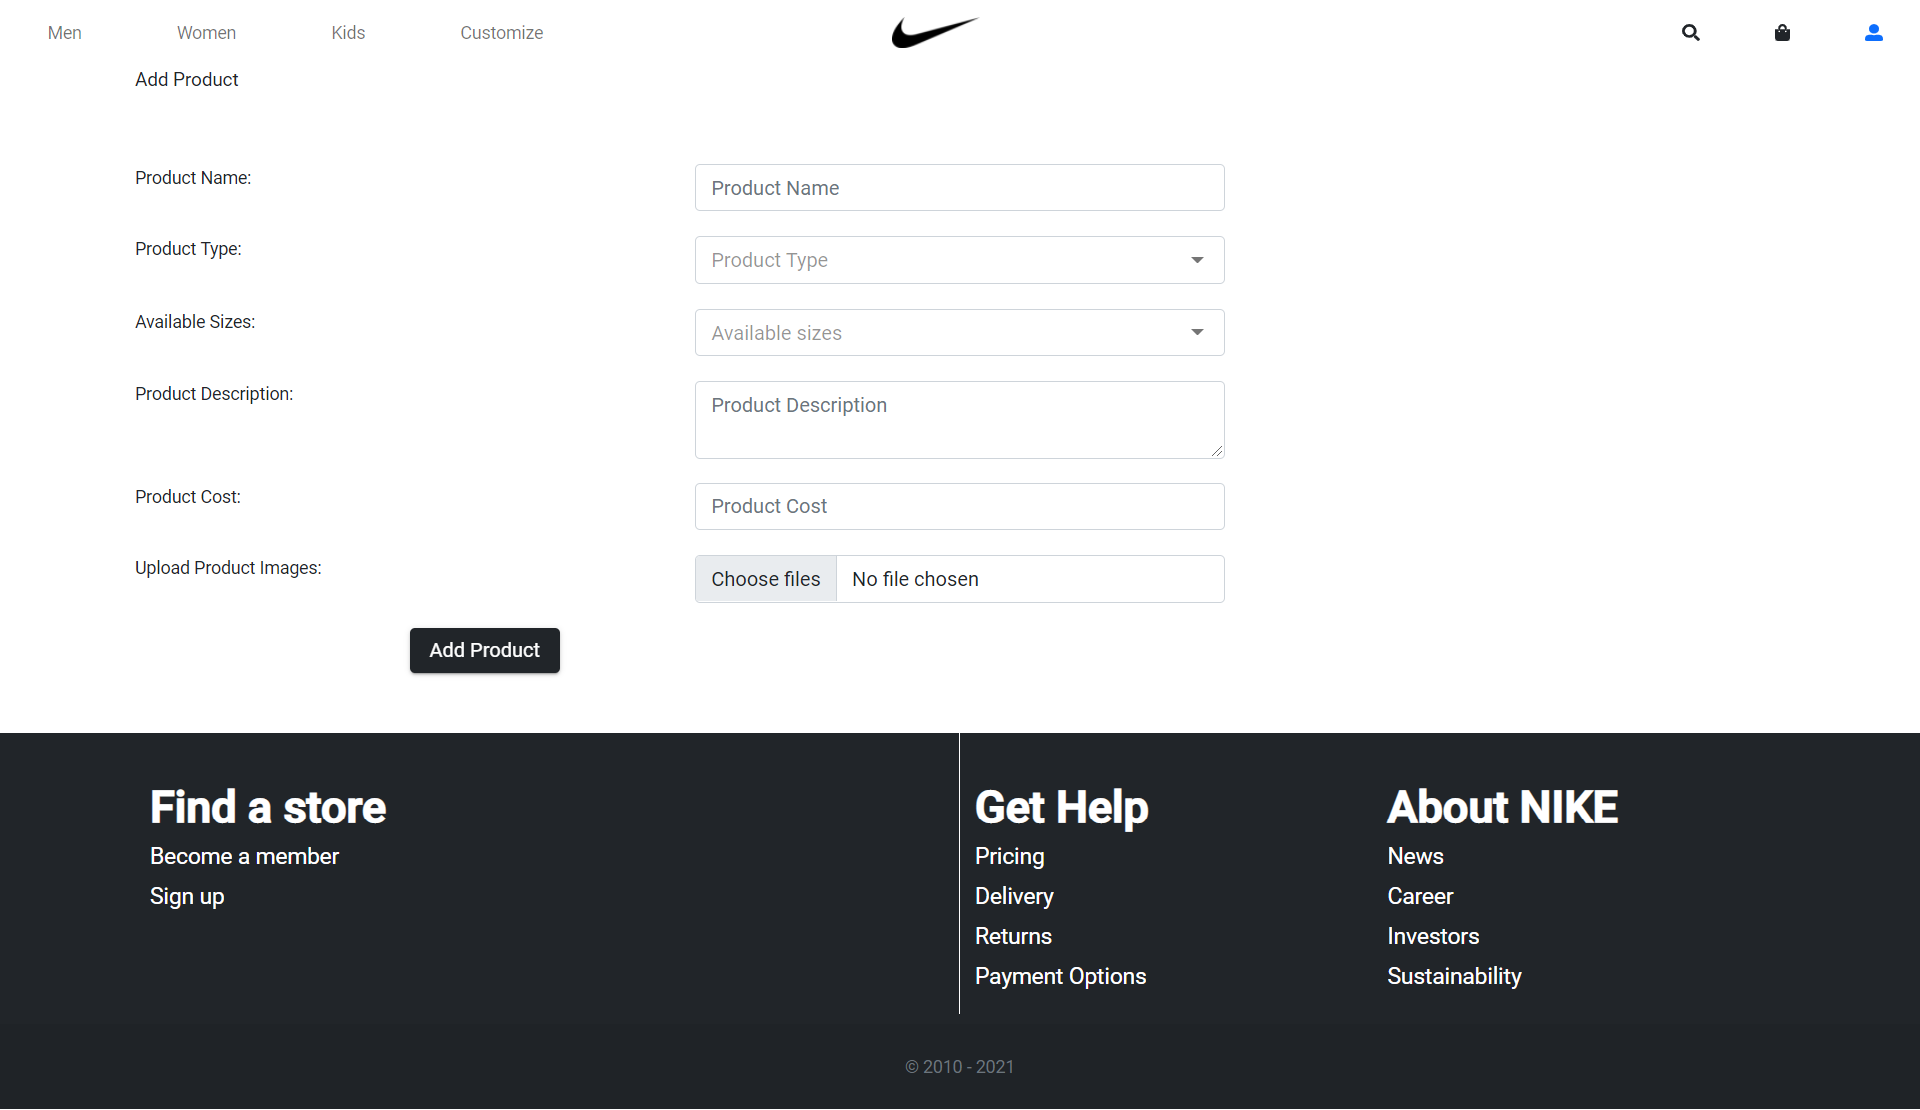
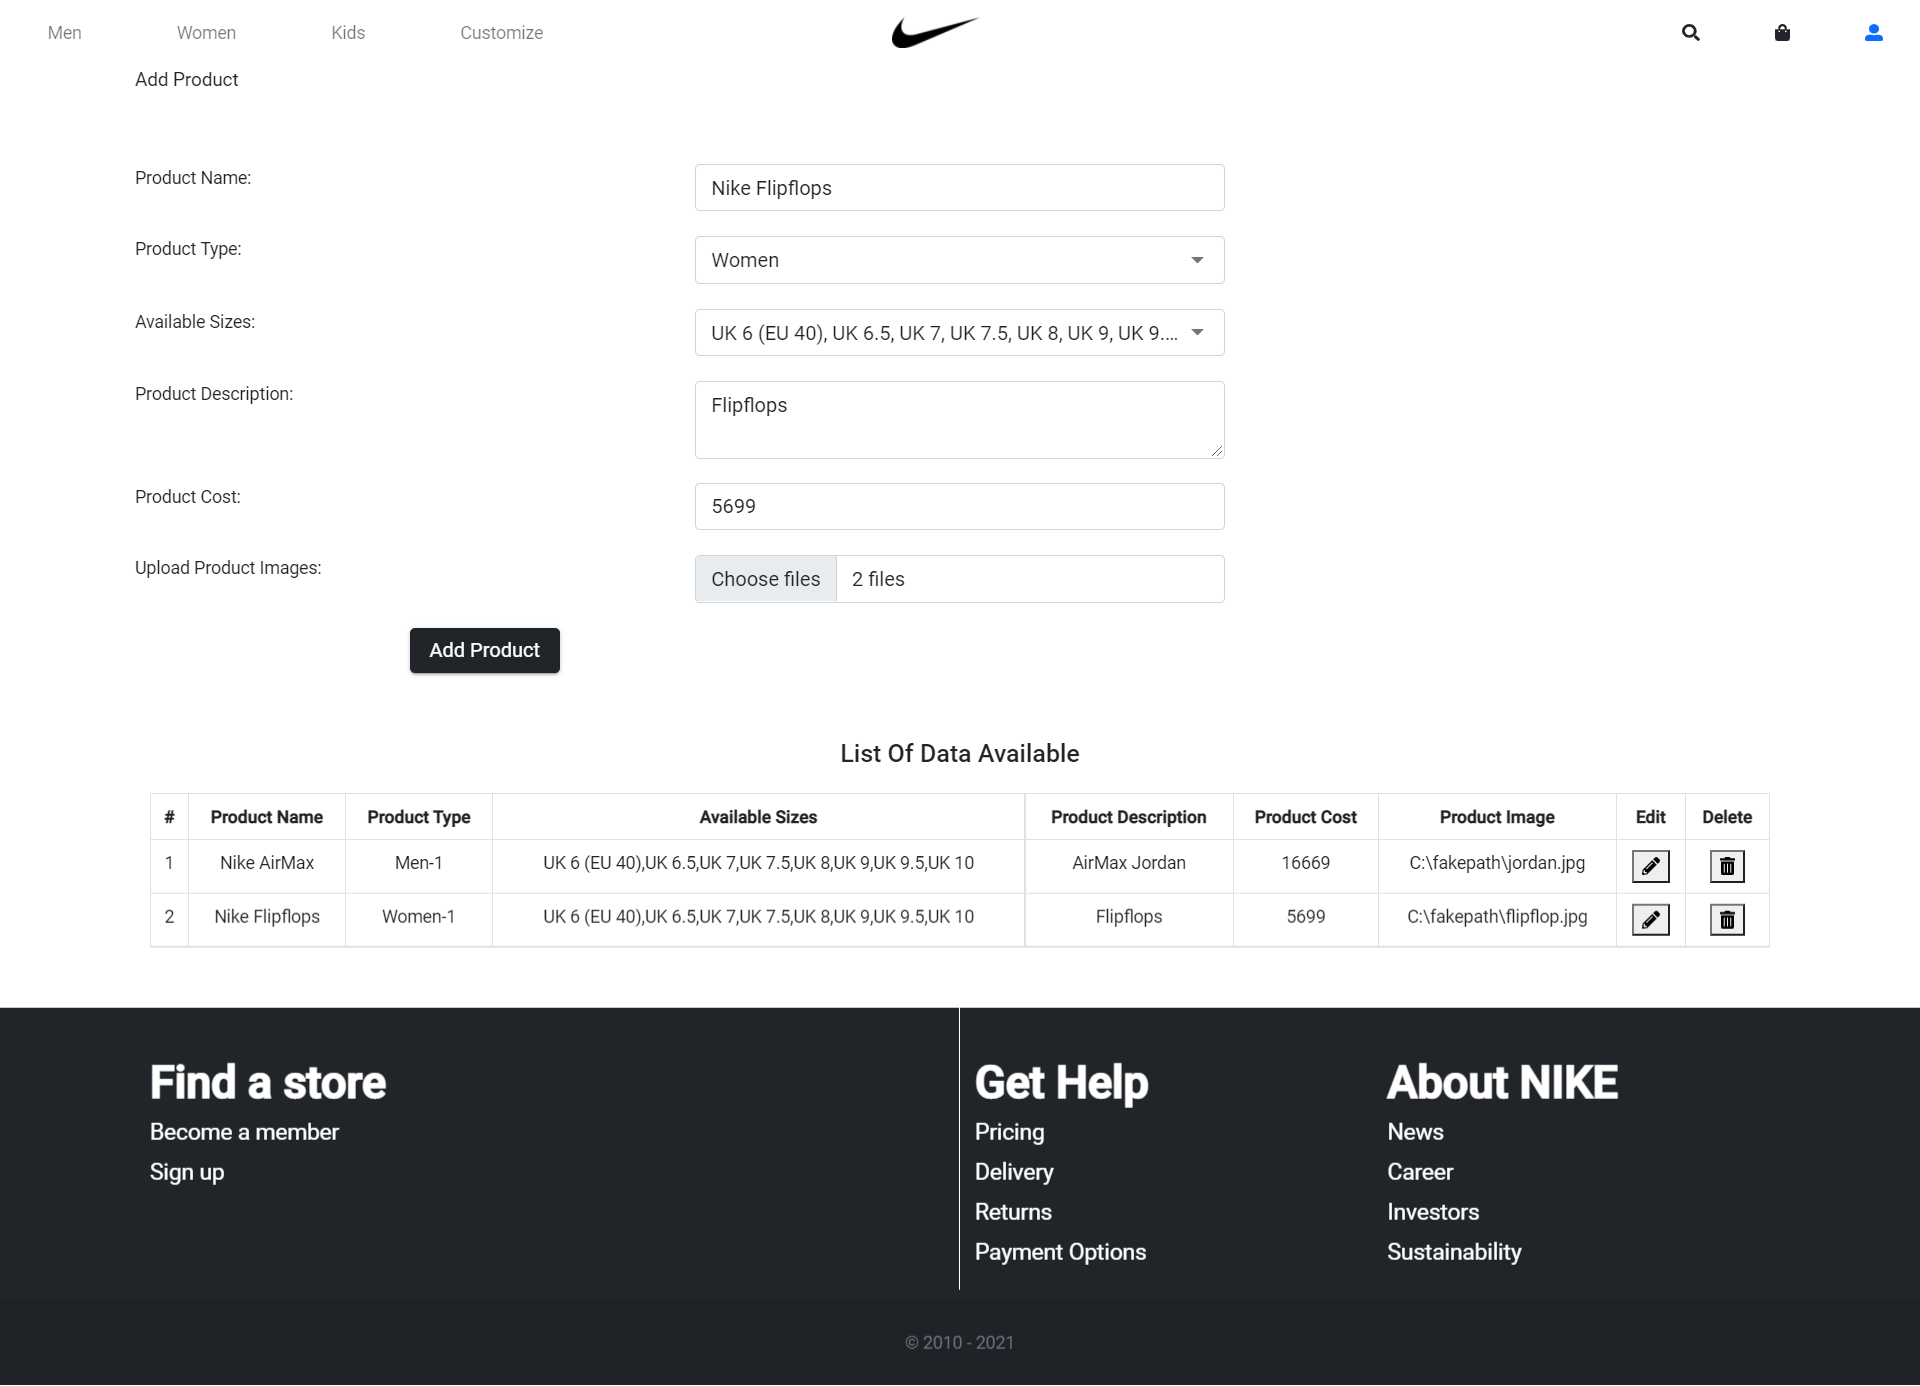
Form actions completed

diff --git a/src/app/components/add-product/add-product.component.html b/src/app/components/add-product/add-product.component.html
@@ -76,3 +76,63 @@
     </div>
   </div>
 </section>
+<section class="view" id="view">
+  <div class="container text-center mt-5">
+    <h2>List Of Data Available</h2>
+    <div class="col-12">
+      <div *ngIf="products.length == 0 || products.length == undefined" class="noResult">
+        <h3>No Data Available at this moment</h3>
+        <h2 *ngIf="add">Add New Item</h2>
+        <h2 *ngIf="edit">Edit the following</h2>
+      </div>
+      <table *ngIf="products.length > 0" id="table" class="contentDiv table table-bordered">
+        <thead>
+          <tr>
+            <th scope="col">#</th>
+            <th scope="col" data-field="name">Product Name</th>
+            <th scope="col" data-field="type">Product Type</th>
+            <th scope="col" data-field="size">Available Sizes</th>
+            <th scope="col" data-field="description">Product Description</th>
+            <th scope="col" data-field="cost">Product Cost</th>
+            <th scope="col" data-field="image">Product Image</th>
+            <th scope="col">Edit</th>
+            <th scope="col">Delete</th>
+          </tr>
+        </thead>
+
+        <tbody>
+          <tr *ngFor="let data of products; index as i">
+            <td>{{ i + 1 }}</td>
+            <td>
+              {{ data.productName }}
+            </td>
+            <td>
+              {{ data.productType }}
+            </td>
+            <td>
+              {{ data.availableSizes }}
+            </td>
+            <td>
+              {{ data.productDescription }}
+            </td>
+            <td>
+              {{ data.productCost }}
+            </td>
+            <td>
+              {{ data.productImage }}
+            </td>
+            <td>
+              <button>
+                <a (click)="onEdit(data)"><i class="fas fa-pencil-alt"></i></a>
+              </button>
+            </td>
+            <td>
+              <button type="submit">
+                <a (click)="onDelete(data)"><i class="fas fa-trash-alt"></i></a>
+              </button></td>
+          </tr>
+        </tbody>
+      </table>
+    </div>
+  </div>
+</section>

diff --git a/src/app/components/add-product/add-product.component.ts b/src/app/components/add-product/add-product.component.ts
@@ -13,6 +13,7 @@ interface productType {
   styleUrls: ['./add-product.component.css'],
 })
 export class AddProductComponent implements OnInit {
+  products: any = [];
   form: FormGroup;
   public loginInvalid = false;
   selectedValue!: string;
@@ -41,6 +42,9 @@ export class AddProductComponent implements OnInit {
     'UK 12.5',
     'UK 13',
   ];
+  editPres: any;
+  add!: boolean;
+  edit!: boolean;
   constructor(private fb: FormBuilder, private router: Router) {
     this.form = this.fb.group({
       productName: ['', Validators.required],
@@ -59,9 +63,35 @@ export class AddProductComponent implements OnInit {
     if (this.form.valid) {
       try {
         console.log(this.form.value);
+        this.products.push(this.form.value);
       } catch (err) {
         console.error(err);
       }
+    }
+    this.edit = false;
+  }
+
+  /* To edit details */
+
+  onEdit(data: any) {
+    this.editPres = data;
+    console.log(data);
+    this.add = false;
+    this.edit = true;
+    this.form = this.fb.group({
+      productName: data.productName,
+      productType: data.productType,
+      productDescription: data.productDescription,
+      // availableSizes: data.availableSizes,
+      productCost: data.productCost,
+      // productImage: data.productImage,
+    });
+  }
+  /* To delete details */
+  onDelete(data: any) {
+    const index: number = this.products.indexOf(data);
+    if (index !== -1) {
+      this.products.splice(index, 1);
     }
   }
 }
